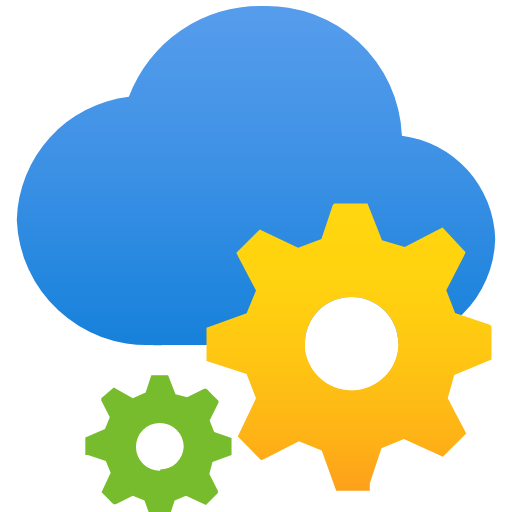
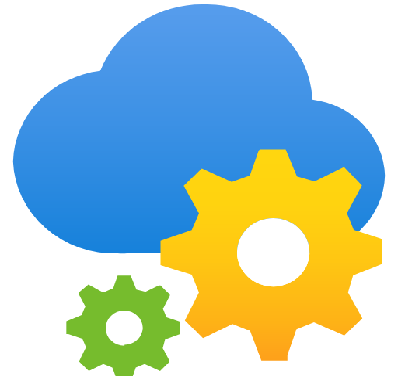
fix base href

diff --git a/flutter_service_worker.js b/flutter_service_worker.js
@@ -41,9 +41,9 @@ const RESOURCES = {"assets/AssetManifest.bin": "a00bfc18c64fdbb6dd6a2a26f858523b
 "canvaskit/skwasm_heavy.wasm": "b0be7910760d205ea4e011458df6ee01",
 "favicon.png": "5dcef449791fa27946b3d35ad8803796",
 "flutter.js": "24bc71911b75b5f8135c949e27a2984e",
-"flutter_bootstrap.js": "dcb799b7f9cfb017bfe67564fd5e955c",
-"icons/Icon-192.png": "9a3c9bc24c3dafdf3abcb4286865d50e",
-"icons/Icon-512.png": "9a3c9bc24c3dafdf3abcb4286865d50e",
+"flutter_bootstrap.js": "af8e226e2258ab89ddacd82c4d9cae49",
+"icons/Icon-192.png": "13c303023a3be6ccba9a439a49f355e8",
+"icons/Icon-512.png": "758984095a9201933ddb3643cf1fa657",
 "icons/Icon-maskable-192.png": "9a3c9bc24c3dafdf3abcb4286865d50e",
 "icons/Icon-maskable-512.png": "9a3c9bc24c3dafdf3abcb4286865d50e",
 "index.html": "dd59c5e7c68da0f47f82d1817636ef01",

diff --git a/flutter_bootstrap.js b/flutter_bootstrap.js
@@ -38,6 +38,6 @@ _flutter.buildConfig = {"engineRevision":"78fc3012e45889657f72359b005af7beac47ba
 
 _flutter.loader.load({
   serviceWorkerSettings: {
-    serviceWorkerVersion: "3277985475"
+    serviceWorkerVersion: "2804456685"
   }
 });
